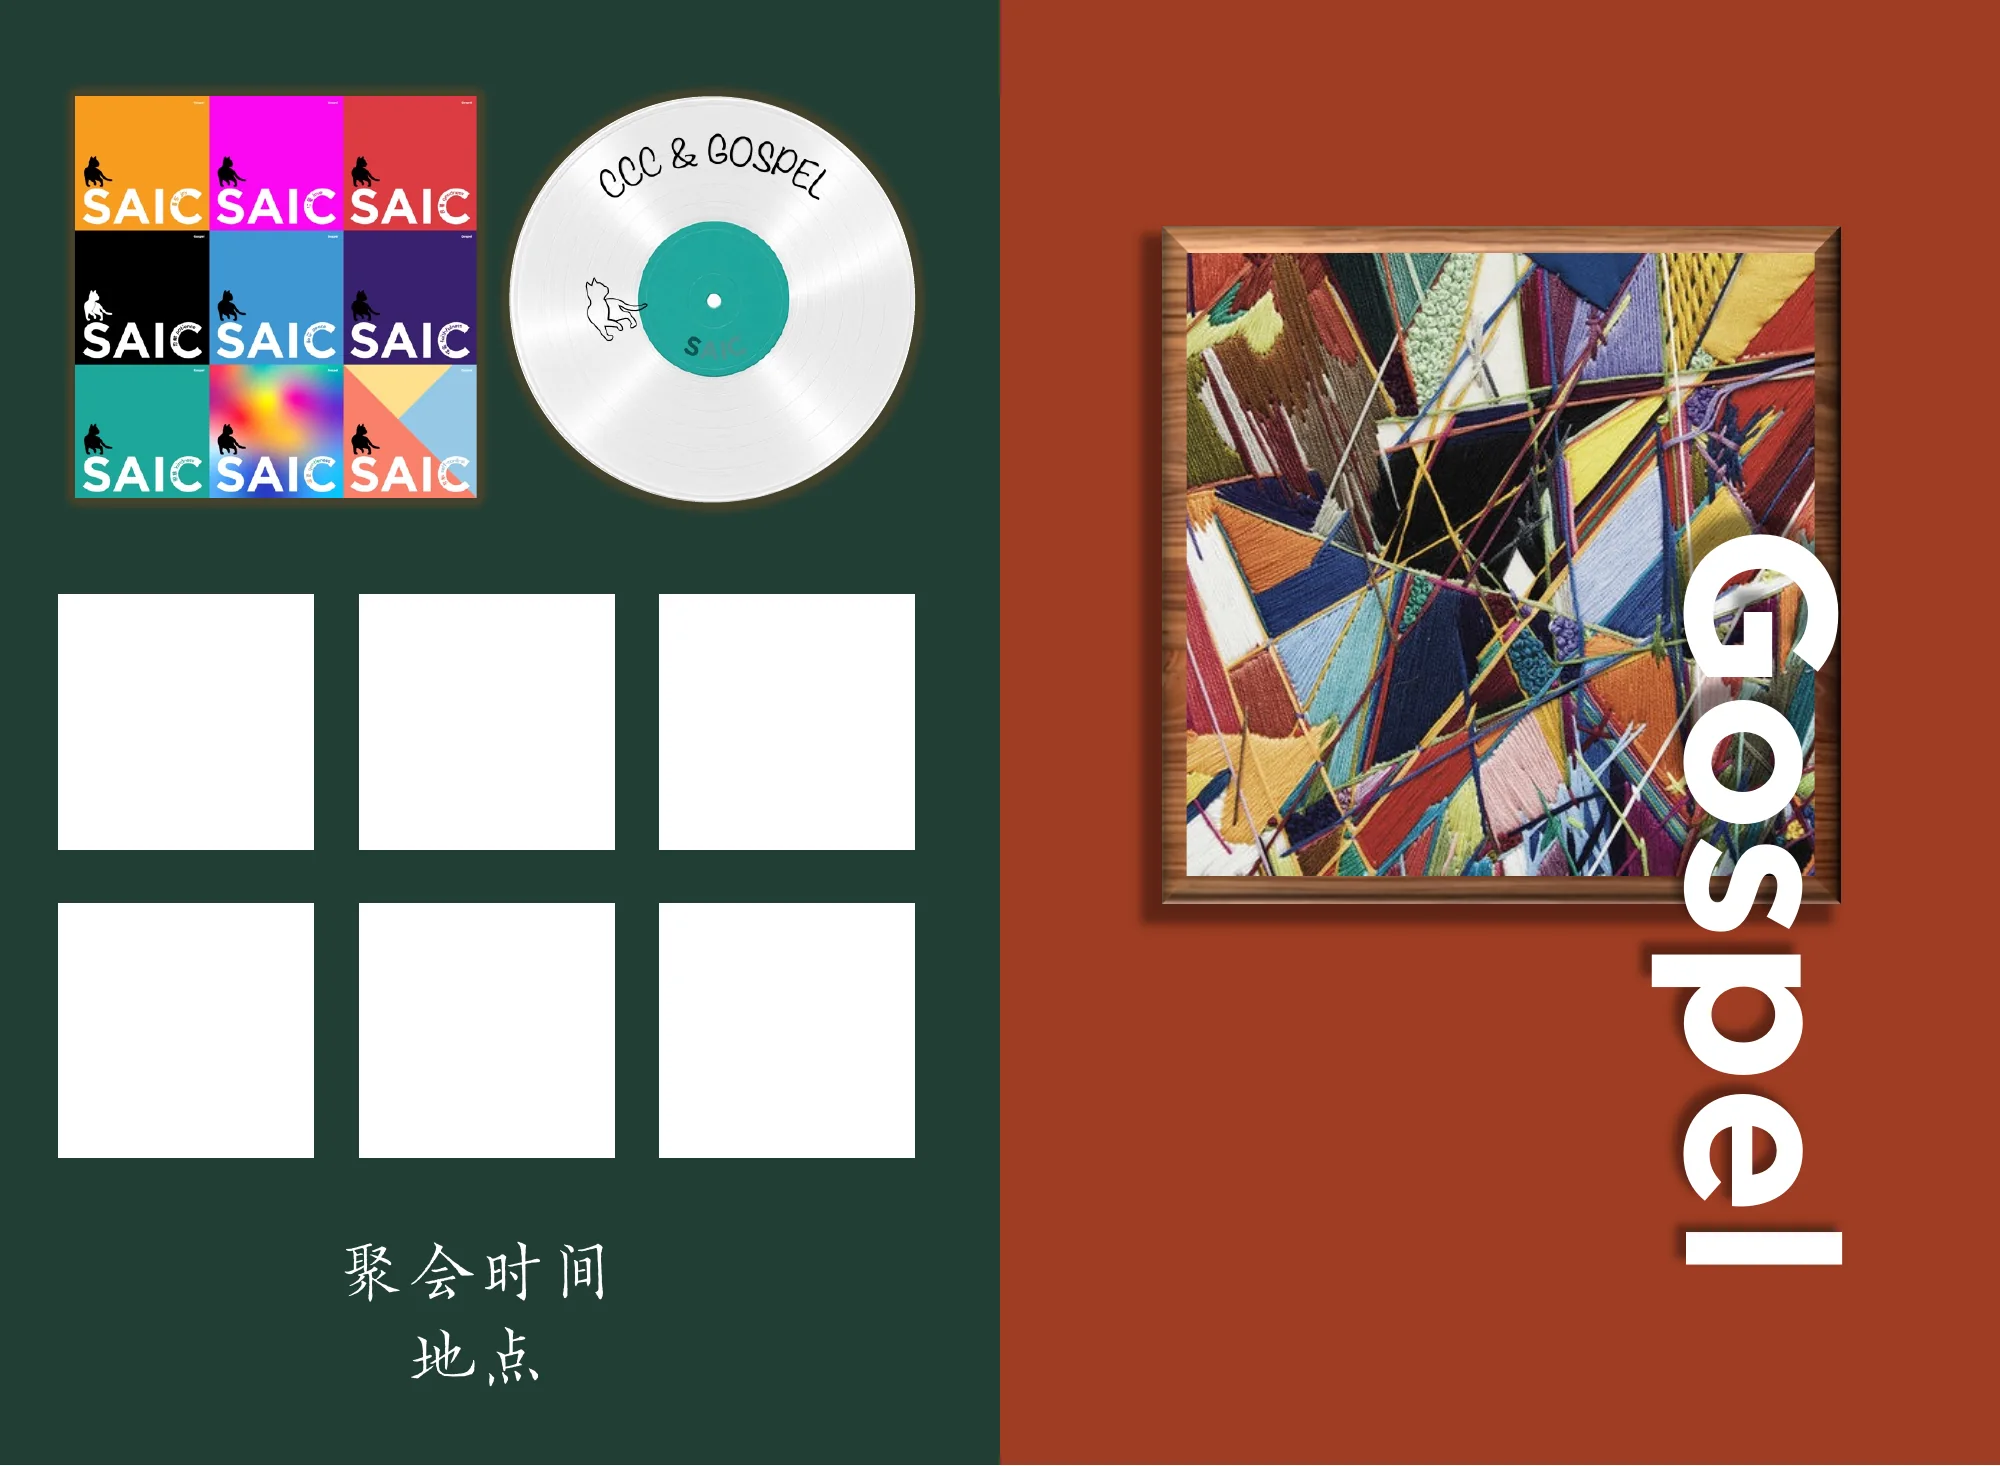
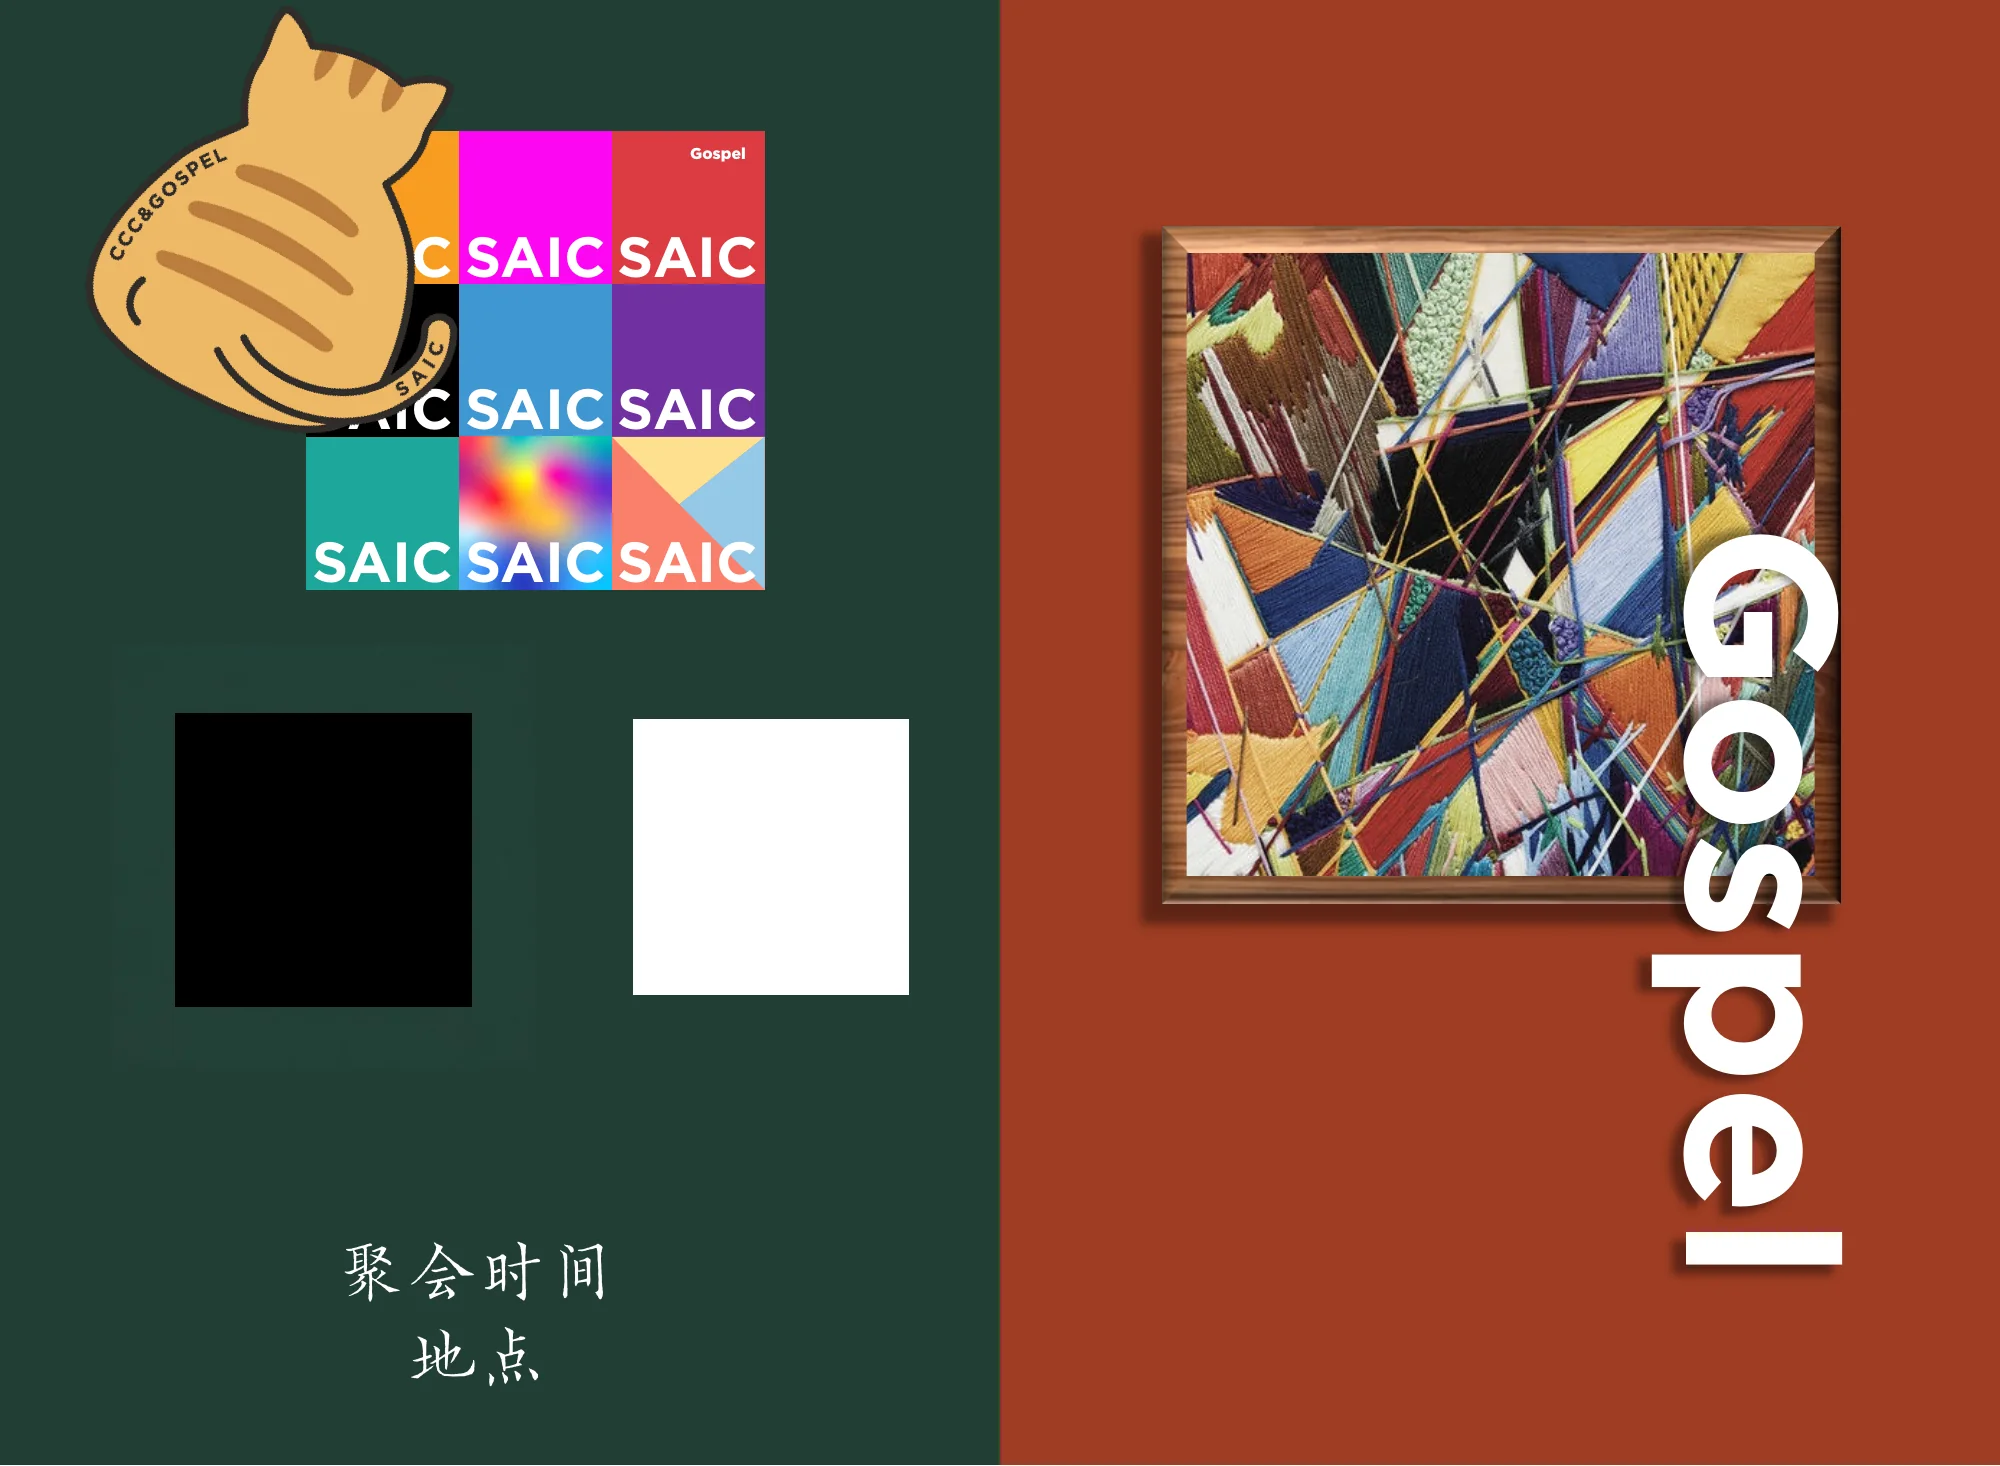
Add SAIC cat gallery and refresh gospel tract

diff --git a/_sass/layout/_gospel-gallery.scss b/_sass/layout/_gospel-gallery.scss
@@ -11,7 +11,8 @@
 }
 
 .gospel-gallery--saic .gospel-gallery__items--grid,
-.gospel-gallery--saic-badges .gospel-gallery__items--grid {
+.gospel-gallery--saic-badges .gospel-gallery__items--grid,
+.gospel-gallery--saic-cats .gospel-gallery__items--grid {
   grid-template-columns: repeat(3, minmax(0, 1fr));
   gap: 0;
 }

diff --git a/_projects/gospel-tract-design.md b/_projects/gospel-tract-design.md
@@ -9,8 +9,8 @@ representative_paths:
 - projects-creation
 title_zh: 福音单张、书签与徽章设计
 title_en: Gospel Tract, Bookmark, and Badge Designs
-summary_zh: 使用 PowerPoint 制作的福音聚会单张、经文书签、方形图案与唱片造型徽章。
-summary_en: Gospel tracts, scripture bookmarks, square designs, and record-style badges made in Microsoft PowerPoint.
+summary_zh: 使用 PowerPoint 制作的福音单张、经文书签、方形图案、猫咪图案与唱片造型徽章。
+summary_en: Gospel tracts, scripture bookmarks, square designs, cat designs, and record-style badges made in Microsoft PowerPoint.
 title: 福音单张、书签与徽章设计
 collection: projects
 category: art
@@ -39,8 +39,13 @@ galleries:
   title: SAIC 唱片徽章设计
   layout: grid
   images: [saic-badge-01.webp, saic-badge-02.webp, saic-badge-03.webp, saic-badge-04.webp, saic-badge-05.webp, saic-badge-06.webp, saic-badge-07.webp, saic-badge-08.webp, saic-badge-09.webp]
+- id: saic-cats
+  title: SAIC 猫猫九宫格
+  layout: grid
+  images: [saic-cat-01.webp, saic-cat-02.webp, saic-cat-03.webp, saic-cat-04.webp, saic-cat-05.webp, saic-cat-06.webp, saic-cat-07.webp, saic-cat-08.webp, saic-cat-09.webp]
+  labels: [银虎斑猫, 暹罗猫, 黑白猫, 蓝灰猫, 黑猫, 三花猫, 橘猫, 白猫, 灰虎斑猫]
 ---
 
-这组作品使用 PowerPoint 制作，包括 IIT 与 SAIC 福音单张、经文书签、方形图案和唱片造型徽章。图片中的个人联系信息、地址、二维码及聚会详情已用黑色遮盖。
+这组作品使用 PowerPoint 制作，包括 IIT 与 SAIC 福音单张、经文书签、方形图案、猫咪图案和唱片造型徽章。图片中的个人联系信息、地址、二维码及聚会详情已用黑色遮盖。
 
 {% include gospel-galleries.html %}
